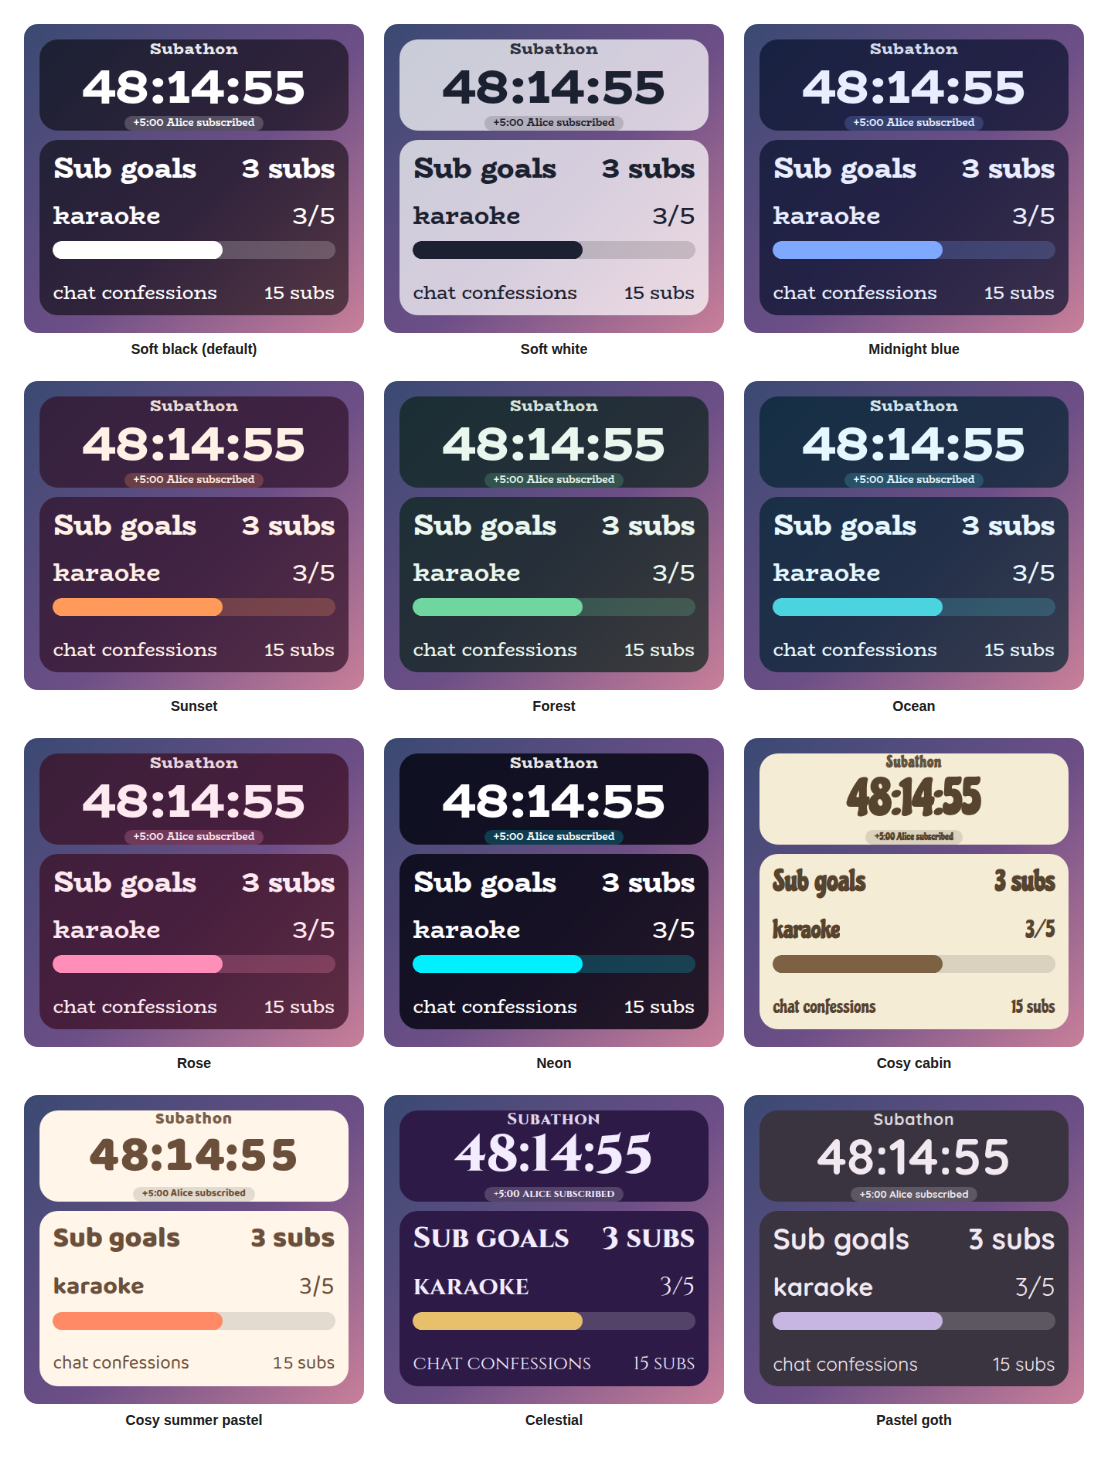
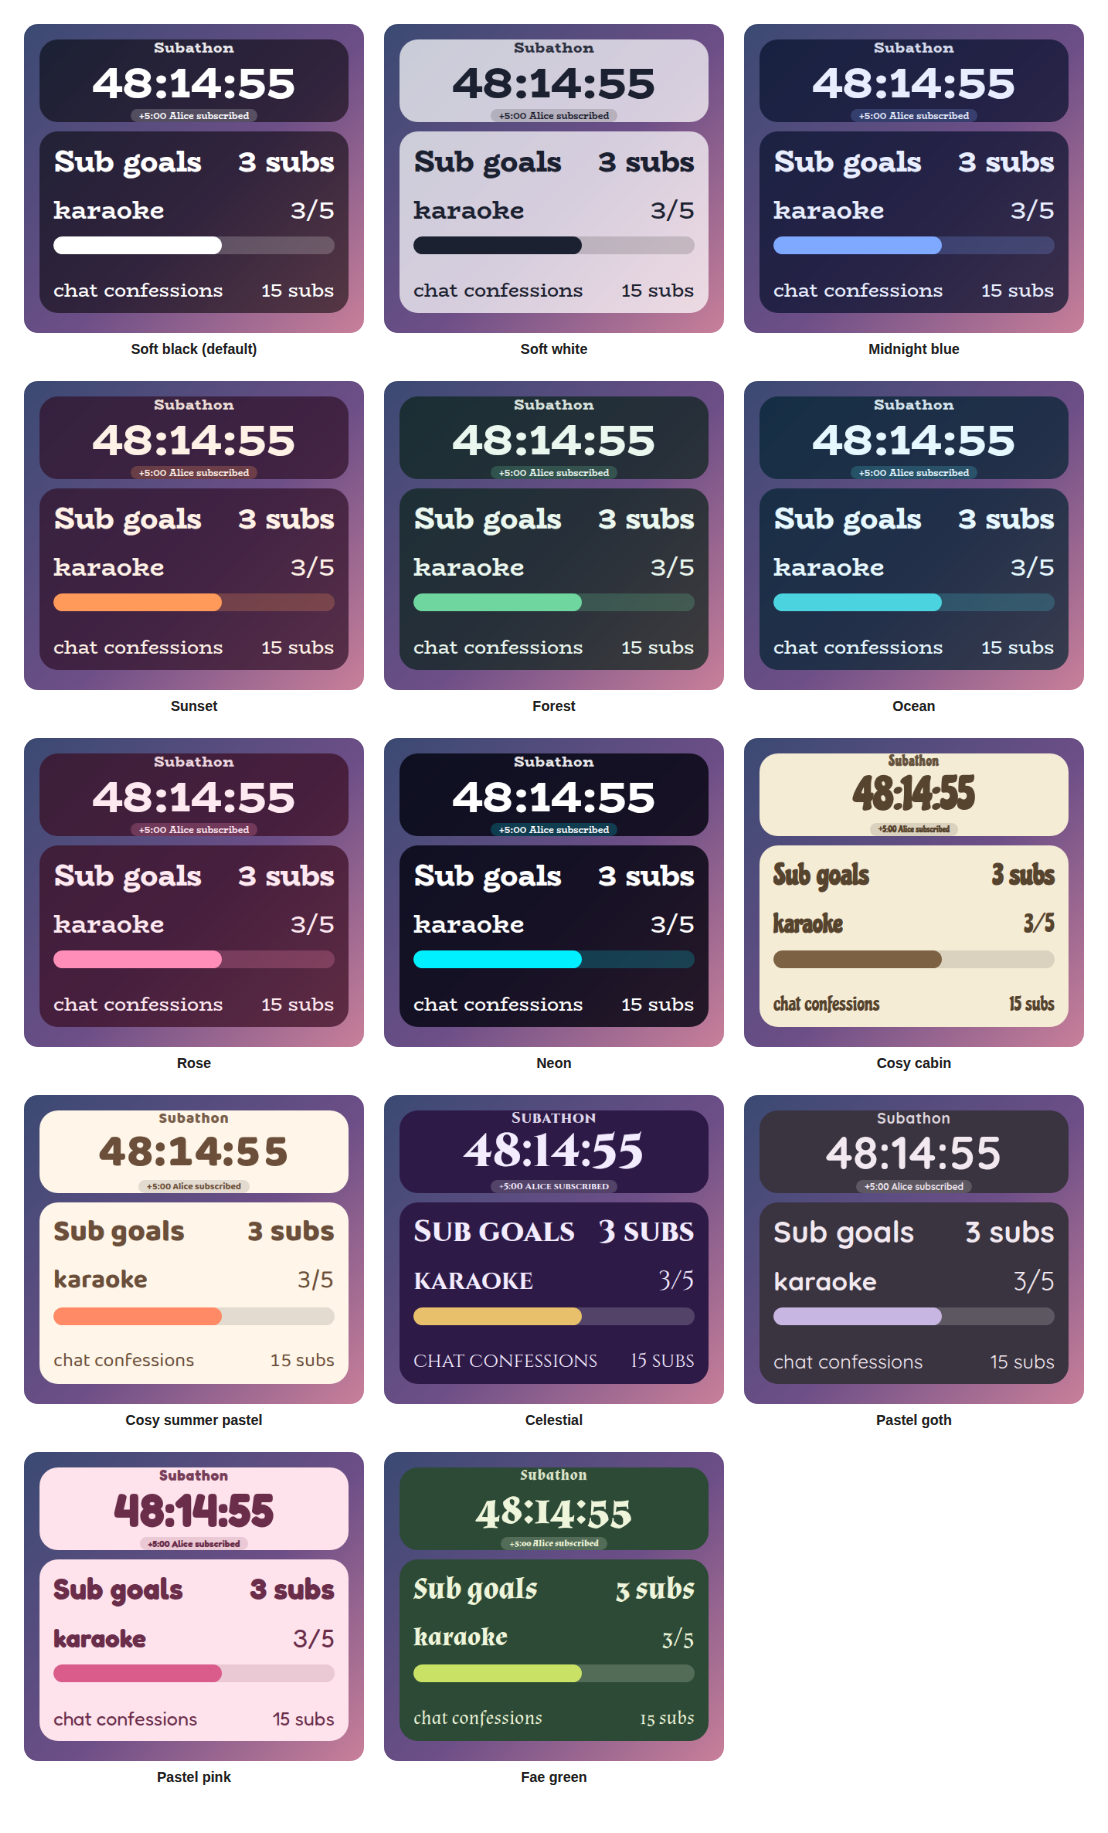
Add the Pastel pink and Fae green presets, and let wording be blank
Two more style presets join the shared set, so there are now fourteen. Pastel pink is a soft blush with rose, in Fredoka, whose rounded letters suit it, and Fae green is a mossy green with a firefly lime accent, in Almendra, a storybook serif. They are identical in every overlay in this set, the dropdown and the README gallery show all fourteen, and the test checks each against the shared palette.

The sub goals module it is built on moves to 1.2.0 for the same palettes, and the clock's own title, labels and time's up text can now be left blank. Wording that was cleared could never stay blank, because StreamElements sends an empty string for a cleared field and the widget turned that back into the default. So a tag, a currency symbol or a message could not be hidden by deleting its text. A blank now stays blank where that is a real choice, and the tests cover it.

diff --git a/widget/widget.js b/widget/widget.js
@@ -63,6 +63,12 @@
     return (v === undefined || v === null || v === "") ? dflt : String(v);
   }
 
+  // For wording where an empty field is a real choice. StreamElements sends "" for a cleared
+  // field, which str() would turn back into the default.
+  function txt(v, dflt) {
+    return (v === undefined || v === null) ? dflt : String(v);
+  }
+
   function clamp(n, lo, hi) { return Math.min(hi, Math.max(lo, n)); }
   // A command word is a single lower-case token, so "Add" and " add " both work.
   function word(v, dflt) { return str(v, dflt).toLowerCase().trim().split(/\s+/)[0]; }
@@ -106,9 +112,9 @@
       showTotal: bool(f.showTotal, true),
       unitSingular: str(f.unitSingular, "sub"),
       unitPlural: str(f.unitPlural, "subs"),
-      unlockedText: str(f.unlockedText, "Unlocked!"),
-      doneText: str(f.doneText, "- unlocked"),
-      pausedText: str(f.pausedText, "(paused)"),
+      unlockedText: txt(f.unlockedText, "Unlocked!"),
+      doneText: txt(f.doneText, "- unlocked"),
+      pausedText: txt(f.pausedText, "(paused)"),
 
       look: {
         panel: str(f.colorPanel, "#000000"),
@@ -153,7 +159,7 @@
         fillSeconds: clamp(num(f.fillSeconds, 0.9), 0, 10)
       },
       showThanks: bool(f.showThanks, true),
-      thanksText: str(f.thanksText, "Thank you for your generosity! <3"),
+      thanksText: txt(f.thanksText, "Thank you for your generosity! <3"),
       thanksBar: bool(f.thanksBar, false),
       sounds: {
         enabled: bool(f.soundsEnabled, true),
@@ -203,7 +209,7 @@
 
   var ALIGN = { top: "flex-start", middle: "center", bottom: "flex-end" };
 
-  /* Style presets. The same twelve, with the same colours, in every overlay in this
+  /* Style presets. The same fourteen, with the same colours, in every overlay in this
      set, generated from one table so they cannot drift apart, so any preset looks
      like one family across a whole stream. The default, Soft black, is a see-through
      black panel with white text. Custom uses the colour pickers instead. */
@@ -219,7 +225,9 @@
     cosycabin: { panel: "#F5ECD6", text: "#57442E", accent: "#7C6142", track: "rgba(0, 0, 0, 0.11)", glow: "#7C6142", font: "Chicle" },
     pastel: { panel: "#FFF6E9", text: "#6B4F3A", accent: "#FF8A65", track: "rgba(0, 0, 0, 0.11)", glow: "#FF8A65", font: "Baloo 2" },
     celestial: { panel: "#2E1A47", text: "#F3ECFF", accent: "#E8C06B", track: "rgba(255, 255, 255, 0.18)", glow: "#E8C06B", font: "Cinzel" },
-    pastelgoth: { panel: "#3A3340", text: "#F2E9F0", accent: "#C8B6E2", track: "rgba(255, 255, 255, 0.18)", glow: "#C8B6E2", font: "Quicksand" }
+    pastelgoth: { panel: "#3A3340", text: "#F2E9F0", accent: "#C8B6E2", track: "rgba(255, 255, 255, 0.18)", glow: "#C8B6E2", font: "Quicksand" },
+    pastelpink: { panel: "#FFE3EC", text: "#6A2E4B", accent: "#D95C8A", track: "rgba(106, 46, 75, 0.14)", glow: "#D95C8A", font: "Fredoka" },
+    faegreen: { panel: "#2C4A36", text: "#EEF5DA", accent: "#C9E265", track: "rgba(238, 245, 218, 0.2)", glow: "#C9E265", font: "Almendra" }
   };
 
   // The colours the panel is actually drawn with: a preset's own, or the pickers'
@@ -1161,7 +1169,9 @@
     cosycabin: { panel: "#F5ECD6", text: "#57442E", accent: "#7C6142", track: "rgba(0, 0, 0, 0.11)", alarm: "#C05746", font: "Chicle" },
     pastel: { panel: "#FFF6E9", text: "#6B4F3A", accent: "#FF8A65", track: "rgba(0, 0, 0, 0.11)", alarm: "#F4587A", font: "Baloo 2" },
     celestial: { panel: "#2E1A47", text: "#F3ECFF", accent: "#E8C06B", track: "rgba(255, 255, 255, 0.18)", alarm: "#B5495B", font: "Cinzel" },
-    pastelgoth: { panel: "#3A3340", text: "#F2E9F0", accent: "#C8B6E2", track: "rgba(255, 255, 255, 0.18)", alarm: "#C96A8E", font: "Quicksand" }
+    pastelgoth: { panel: "#3A3340", text: "#F2E9F0", accent: "#C8B6E2", track: "rgba(255, 255, 255, 0.18)", alarm: "#C96A8E", font: "Quicksand" },
+    pastelpink: { panel: "#FFE3EC", text: "#6A2E4B", accent: "#D95C8A", track: "rgba(106, 46, 75, 0.14)", alarm: "#D6456F", font: "Fredoka" },
+    faegreen: { panel: "#2C4A36", text: "#EEF5DA", accent: "#C9E265", track: "rgba(238, 245, 218, 0.2)", alarm: "#E0805A", font: "Almendra" }
   };
 
   var el = {};
@@ -1177,6 +1187,9 @@
   // ---------------------------------------------------------------------------
   function now() { return Date.now(); }
   function str(v, d) { return (v === undefined || v === null || v === "") ? d : String(v); }
+  // For wording where an empty field is a real choice. StreamElements sends "" for a cleared
+  // field, which str() would turn back into the default.
+  function txt(v, d) { return (v === undefined || v === null) ? d : String(v); }
   function num(v, d) { var n = parseFloat(v); return isNaN(n) ? d : n; }
   function bool(v, d) {
     if (v === undefined || v === null) return d;
@@ -1649,8 +1662,8 @@
 
   function statusLine() {
     var bits = [];
-    if (cfg.showDay) bits.push(cfg.dayLabel + " " + dayNumber());
-    if (state.ended) bits.push(cfg.endedText);
+    if (cfg.showDay) bits.push((cfg.dayLabel ? cfg.dayLabel + " " : "") + dayNumber());
+    if (state.ended) { if (cfg.endedText) bits.push(cfg.endedText); }
     else if (!state.running) bits.push("paused");
     if (state.locked) bits.push("locked");
     if (powerActive()) {
@@ -1679,7 +1692,7 @@
       el.clock.textContent = text;
       lastClockText = text;
     }
-    el.elapsed.textContent = showsElapsed ? cfg.remainingLabel + " " + remainingText : cfg.elapsedLabel + " " + elapsedText;
+    el.elapsed.textContent = showsElapsed ? (cfg.remainingLabel ? cfg.remainingLabel + " " : "") + remainingText : (cfg.elapsedLabel ? cfg.elapsedLabel + " " : "") + elapsedText;
     el.elapsed.hidden = !cfg.showOther;
     el.app.classList.toggle("long", text.length > 8);
     el.app.classList.toggle("warn", !state.ended && cfg.warnMs > 0 && rem <= cfg.warnMs);
@@ -1703,7 +1716,7 @@
       start: str(f.tmStart, "24:00:00"),
       warnMs: durationField(f.tmWarn, 3600000),
       lockAtZero: bool(f.tmLockAtZero, true),
-      endedText: str(f.tmEndedText, "Time's up!"),
+      endedText: txt(f.tmEndedText, "Time's up!"),
       capEnabled: bool(f.tmCapEnabled, false),
       capMs: durationField(f.tmCap, NaN),
       showCap: bool(f.tmShowCap, true),
@@ -1718,15 +1731,15 @@
       powerEvents: Math.max(0, Math.floor(num(f.tmPowerEvents, 0))),
       sleepMult: Math.max(0, num(f.tmSleepMult, 0.5)),
       manual: str(f.tmManual, "10m"),
-      title: str(f.tmTitle, "Subathon"),
+      title: txt(f.tmTitle, "Subathon"),
       showTitle: bool(f.tmShowTitle, true),
       showStatus: bool(f.tmShowStatus, true),
       clockShows: str(f.tmClockShows, "remaining"),
       showOther: bool(f.tmShowOther, false),
-      elapsedLabel: str(f.tmElapsedLabel, "Elapsed"),
-      remainingLabel: str(f.tmRemainingLabel, "Remaining"),
+      elapsedLabel: txt(f.tmElapsedLabel, "Elapsed"),
+      remainingLabel: txt(f.tmRemainingLabel, "Remaining"),
       showDay: bool(f.tmShowDay, false),
-      dayLabel: str(f.tmDayLabel, "Day"),
+      dayLabel: txt(f.tmDayLabel, "Day"),
       dayMode: str(f.tmDayMode, "calendar"),
       dayRollover: Math.max(0, Math.min(23, Math.floor(num(f.tmDayRollover, 4)))),
       showGoals: bool(f.tmShowGoals, true),

diff --git a/src/clock.js b/src/clock.js
@@ -33,7 +33,9 @@
     cosycabin: { panel: "#F5ECD6", text: "#57442E", accent: "#7C6142", track: "rgba(0, 0, 0, 0.11)", alarm: "#C05746", font: "Chicle" },
     pastel: { panel: "#FFF6E9", text: "#6B4F3A", accent: "#FF8A65", track: "rgba(0, 0, 0, 0.11)", alarm: "#F4587A", font: "Baloo 2" },
     celestial: { panel: "#2E1A47", text: "#F3ECFF", accent: "#E8C06B", track: "rgba(255, 255, 255, 0.18)", alarm: "#B5495B", font: "Cinzel" },
-    pastelgoth: { panel: "#3A3340", text: "#F2E9F0", accent: "#C8B6E2", track: "rgba(255, 255, 255, 0.18)", alarm: "#C96A8E", font: "Quicksand" }
+    pastelgoth: { panel: "#3A3340", text: "#F2E9F0", accent: "#C8B6E2", track: "rgba(255, 255, 255, 0.18)", alarm: "#C96A8E", font: "Quicksand" },
+    pastelpink: { panel: "#FFE3EC", text: "#6A2E4B", accent: "#D95C8A", track: "rgba(106, 46, 75, 0.14)", alarm: "#D6456F", font: "Fredoka" },
+    faegreen: { panel: "#2C4A36", text: "#EEF5DA", accent: "#C9E265", track: "rgba(238, 245, 218, 0.2)", alarm: "#E0805A", font: "Almendra" }
   };
 
   var el = {};
@@ -49,6 +51,9 @@
   // ---------------------------------------------------------------------------
   function now() { return Date.now(); }
   function str(v, d) { return (v === undefined || v === null || v === "") ? d : String(v); }
+  // For wording where an empty field is a real choice. StreamElements sends "" for a cleared
+  // field, which str() would turn back into the default.
+  function txt(v, d) { return (v === undefined || v === null) ? d : String(v); }
   function num(v, d) { var n = parseFloat(v); return isNaN(n) ? d : n; }
   function bool(v, d) {
     if (v === undefined || v === null) return d;
@@ -521,8 +526,8 @@
 
   function statusLine() {
     var bits = [];
-    if (cfg.showDay) bits.push(cfg.dayLabel + " " + dayNumber());
-    if (state.ended) bits.push(cfg.endedText);
+    if (cfg.showDay) bits.push((cfg.dayLabel ? cfg.dayLabel + " " : "") + dayNumber());
+    if (state.ended) { if (cfg.endedText) bits.push(cfg.endedText); }
     else if (!state.running) bits.push("paused");
     if (state.locked) bits.push("locked");
     if (powerActive()) {
@@ -551,7 +556,7 @@
       el.clock.textContent = text;
       lastClockText = text;
     }
-    el.elapsed.textContent = showsElapsed ? cfg.remainingLabel + " " + remainingText : cfg.elapsedLabel + " " + elapsedText;
+    el.elapsed.textContent = showsElapsed ? (cfg.remainingLabel ? cfg.remainingLabel + " " : "") + remainingText : (cfg.elapsedLabel ? cfg.elapsedLabel + " " : "") + elapsedText;
     el.elapsed.hidden = !cfg.showOther;
     el.app.classList.toggle("long", text.length > 8);
     el.app.classList.toggle("warn", !state.ended && cfg.warnMs > 0 && rem <= cfg.warnMs);
@@ -575,7 +580,7 @@
       start: str(f.tmStart, "24:00:00"),
       warnMs: durationField(f.tmWarn, 3600000),
       lockAtZero: bool(f.tmLockAtZero, true),
-      endedText: str(f.tmEndedText, "Time's up!"),
+      endedText: txt(f.tmEndedText, "Time's up!"),
       capEnabled: bool(f.tmCapEnabled, false),
       capMs: durationField(f.tmCap, NaN),
       showCap: bool(f.tmShowCap, true),
@@ -590,15 +595,15 @@
       powerEvents: Math.max(0, Math.floor(num(f.tmPowerEvents, 0))),
       sleepMult: Math.max(0, num(f.tmSleepMult, 0.5)),
       manual: str(f.tmManual, "10m"),
-      title: str(f.tmTitle, "Subathon"),
+      title: txt(f.tmTitle, "Subathon"),
       showTitle: bool(f.tmShowTitle, true),
       showStatus: bool(f.tmShowStatus, true),
       clockShows: str(f.tmClockShows, "remaining"),
       showOther: bool(f.tmShowOther, false),
-      elapsedLabel: str(f.tmElapsedLabel, "Elapsed"),
-      remainingLabel: str(f.tmRemainingLabel, "Remaining"),
+      elapsedLabel: txt(f.tmElapsedLabel, "Elapsed"),
+      remainingLabel: txt(f.tmRemainingLabel, "Remaining"),
       showDay: bool(f.tmShowDay, false),
-      dayLabel: str(f.tmDayLabel, "Day"),
+      dayLabel: txt(f.tmDayLabel, "Day"),
       dayMode: str(f.tmDayMode, "calendar"),
       dayRollover: Math.max(0, Math.min(23, Math.floor(num(f.tmDayRollover, 4)))),
       showGoals: bool(f.tmShowGoals, true),

diff --git a/test/test-widget.js b/test/test-widget.js
@@ -427,6 +427,12 @@ function ok(cond, msg) { if (cond) { pass++; console.log("  PASS " + msg); } els
   button("tmResume"); fake += 60000; await reload(); await settled();
   ok(other() === "Elapsed 00:02:30" || other() === "Elapsed 00:02:31", "and a refresh while running counts the gap too (" + other() + ")");
 
+  console.log("\n[blanking the wording]");
+  await load({ tmTitle: "" }); ok(E("subathon-title").hidden, "a blank title hides the title instead of bringing the default back");
+  await load({ tmStart: "1m", tmEndedText: "" }); button("tmResume"); await advance(61000); ok(has("ended") && status() === "", "a blank time's up text shows nothing, though the clock still ends (" + status() + ")");
+  await load({ tmStart: "10:00:00", tmShowOther: true, tmElapsedLabel: "" }); ok(other() === "00:00:00", "a blank elapsed label leaves just the time (" + other() + ")");
+  await load({ tmStart: "10:00:00", tmShowDay: true, tmDayLabel: "", tmDayMode: "manual" }); ok(/^1\b/.test(status()), "a blank day word leaves just the number (" + status() + ")");
+
   console.log("\n[saving]");
   await load({ tmStart: "10:00:00" });
   button("tmResume"); sub({ amount: 1 }); await advance(30000);
@@ -457,7 +463,7 @@ function ok(cond, msg) { if (cond) { pass++; console.log("  PASS " + msg); } els
 
   console.log("\n[style presets, shared with the other overlays]");
   const opts = fields.themePreset.options, keys = Object.keys(opts);
-  ok(keys.length === Object.keys(expectedPresets).length + 1 && keys[keys.length - 1] === "custom", "the dropdown has the twelve shared presets and Custom (" + keys.length + ")");
+  ok(keys.length === Object.keys(expectedPresets).length + 1 && keys[keys.length - 1] === "custom", "the dropdown has the fourteen shared presets and Custom (" + keys.length + ")");
   ok(fields.themePreset.value === "glass", "Soft black is the default");
   let allMatch = true;
   for (const key of Object.keys(expectedPresets)) {

diff --git a/dev/harness.js b/dev/harness.js
@@ -77,7 +77,7 @@
         load();
       });
       row.appendChild(sel); c.appendChild(row);
-      c.appendChild(el("p", { "class": "hint", text: "The same twelve presets are in every overlay in this set, and one choice styles the clock and the goals together. Custom uses the colour settings below." }));
+      c.appendChild(el("p", { "class": "hint", text: "The same fourteen presets are in every overlay in this set, and one choice styles the clock and the goals together. Custom uses the colour settings below." }));
     }
     var msg = el("p", { "class": "hint", id: "export-msg" });
     c.appendChild(btn("Download fields.json", function () {

diff --git a/README.md b/README.md
@@ -18,7 +18,7 @@ It is one widget with no dependencies and nothing to install. The sub goals are 
 - Lock and pause: pause the clock, or lock it so new time is banked while you decide what to do.
 - Chat control: add, subtract, set, pause, resume, lock, power up and more, from chat, for the broadcaster or moderators.
 - Sub goals underneath: the same goals as `!incentive add 15 chat confessions`, filling as subs and bits land, in the same panel style.
-- Twelve style presets: one setting styles the clock and the goals together, and the same twelve presets are in every overlay in this set.
+- Fourteen style presets: one setting styles the clock and the goals together, and the same fourteen presets are in every overlay in this set.
 - Customisable: over 170 settings cover values, commands, sizes, colours, fonts, sounds and animation.
 - Saved: the clock, the cap, banked time, power-ups and lock all survive a browser-source refresh, and a refresh while running keeps counting through the gap.
 - Tests and a dev harness: a local harness with a time machine and an automated test script, so a 200 hour subathon can be tried in a minute.
@@ -35,9 +35,9 @@ It is one widget with no dependencies and nothing to install. The sub goals are 
 
 ## Style presets
 
-One setting picks the look, for the clock and the goals together. The same twelve presets, with the same colours, are in every overlay in this set, so overlays from this set match whichever you choose. This is how each one looks here.
+One setting picks the look, for the clock and the goals together. The same fourteen presets, with the same colours, are in every overlay in this set, so overlays from this set match whichever you choose. This is how each one looks here.
 
-<p><img src="docs/presets.png" alt="A grid of the clock and goals in each of the twelve style presets: Soft black, Soft white, Midnight blue, Sunset, Forest, Ocean, Rose, Neon, Cosy cabin, Cosy summer pastel, Celestial and Pastel goth" width="760"></p>
+<p><img src="docs/presets.png" alt="A grid of the clock and goals in each of the fourteen style presets: Soft black, Soft white, Midnight blue, Sunset, Forest, Ocean, Rose, Neon, Cosy cabin, Cosy summer pastel, Celestial, Pastel goth, Pastel pink and Fae green" width="760"></p>
 
 | Preset | Look |
 | --- | --- |
@@ -53,6 +53,8 @@ One setting picks the look, for the clock and the goals together. The same twelv
 | Cosy summer pastel | Warm cream and coral, in Baloo 2. |
 | Celestial | Deep purple and gold, in Cinzel. |
 | Pastel goth | Charcoal and lilac, in Quicksand. |
+| Pastel pink | Soft blush pink with rose, in Fredoka. |
+| Fae green | Mossy green with a firefly lime accent, in Almendra. |
 
 Choose **Custom** to use the colour pickers and font instead. They are ignored while a preset is chosen.
 
@@ -208,7 +210,7 @@ A StreamElements widget can read chat but cannot write to it, so the clock canno
 
 ## Related overlays
 
-These overlays share the same default look and the same twelve style presets, so they sit together on one stream.
+These overlays share the same default look and the same fourteen style presets, so they sit together on one stream.
 
 - [Sub Goals Overlay](https://github.com/jordan-lee-code/sub-goals-overlay): sub and bits goals that fill as chat reaches them.
 - [Spin Wheel Overlay](https://github.com/jordan-lee-code/spin-wheel-overlay): a wheel for giveaways, raffles and forfeits.

diff --git a/CONTRIBUTING.md b/CONTRIBUTING.md
@@ -28,7 +28,7 @@ Anything about the goals themselves (how subs are counted, the panel, the comman
 4. When you add a clock setting, add it to `src/fields.json` with a `tm` prefix and a "Clock: " group, and read it in `src/clock.js`.
 5. Add or update tests in `test/`, and make sure `npm test` passes.
 6. If behaviour changes, update the README.
-7. The twelve style presets are shared by every overlay in this set, with identical colours, so they look cohesive on one stream. If you change a palette, make the same change in the other overlays and regenerate the gallery in `docs/presets.png`.
+7. The fourteen style presets are shared by every overlay in this set, with identical colours, so they look cohesive on one stream. If you change a palette, make the same change in the other overlays and regenerate the gallery in `docs/presets.png`.
 
 ## Reporting a bug
 
